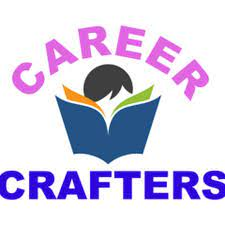
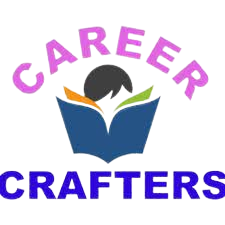
Add files via upload

diff --git a/app.py b/app.py
@@ -201,6 +201,9 @@ menu  = ["Home","Login","SignUp","Career Solution","Contact US"]
 choice = st.sidebar.selectbox("Menu",menu)
 
 if choice=="Home":
+    left_co, cent_co,last_co = st.columns(3)
+    with cent_co:
+        st.image("CareerCraft.png",width=200)
     st.markdown(
         """
         <p align="justify">
